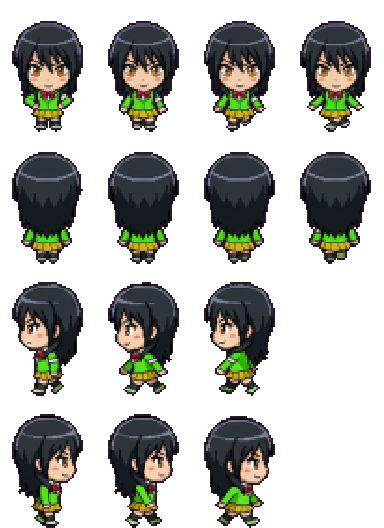
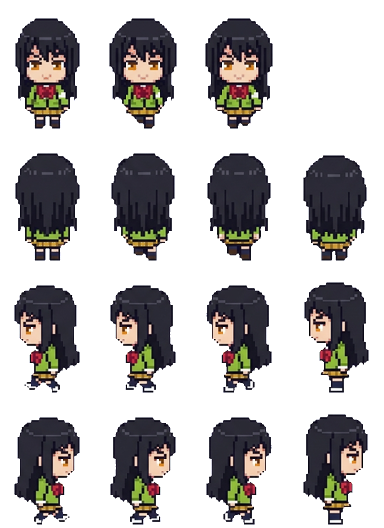
Redraw Misaki in the shared pixel style
Claude-Session: https://claude.ai/code/session_01KaPsBYLrtbRfMYNG2xeBCK

diff --git a/docs/app.js b/docs/app.js
@@ -75,7 +75,7 @@ function spr(cat, k, col, sc) {
   return `<div class="clip" style="width:${it[2] * sc}px;height:${it[3] * sc}px;POS"><img class="px" src="assets/decor/${cat}.png" alt="" style="width:${S.sw * sc}px;height:${S.sh * sc}px;margin-left:${-col * S.cw * sc}px;margin-top:${-i * S.ch * sc}px"></div>`;
 }
 const icon = (k, sz) => `<span class="itm" style="width:${sz}px;height:${sz}px"><img class="px" src="assets/ui/items.png" alt="" style="width:${IT.length * sz}px;height:${sz}px;margin-left:${-ITM[k].i * sz}px"></span>`;
-const face = (id, w) => { const s = w / 96; return `<img class="px" src="assets/ch/${id}.webp?v=75" alt="" style="position:absolute;width:${384 * s}px;height:${528 * s}px;left:${-(96 * s - w) / 2}px;top:0;max-width:none">`; };
+const face = (id, w) => { const s = w / 96; return `<img class="px" src="assets/ch/${id}.webp?v=76" alt="" style="position:absolute;width:${384 * s}px;height:${528 * s}px;left:${-(96 * s - w) / 2}px;top:0;max-width:none">`; };
 
 // ---------- 저장 ----------
 let fb = null, user = null, S = null, saveT = null;
@@ -143,7 +143,7 @@ function sleepHTML(id, r, dy) {
   const pos = r.a && r.a[0] === 'bed' ? 'left:3%;bottom:20%' : r.b && r.b[0] === 'bed' ? 'right:3%;bottom:20%' : 'left:calc(50% - 44px);bottom:6%';
   const s = 36 / 96;
   return `<div style="position:absolute;width:88px;height:56px;${pos};z-index:${dy ? 4 : 5};${dy ? `transform:translate(12px,${dy}px)` : ''}"><div style="position:absolute;inset:0;filter:brightness(.22)">
-    <div style="position:absolute;left:11px;top:1px;width:36px;height:50px;overflow:hidden;transform:rotate(-90deg)"><img class="px" src="assets/ch/${id}.webp?v=75" alt="" style="width:${384 * s}px;height:${528 * s}px;max-width:none;margin-top:${-132 * s}px"></div>
+    <div style="position:absolute;left:11px;top:1px;width:36px;height:50px;overflow:hidden;transform:rotate(-90deg)"><img class="px" src="assets/ch/${id}.webp?v=76" alt="" style="width:${384 * s}px;height:${528 * s}px;max-width:none;margin-top:${-132 * s}px"></div>
     <div style="position:absolute;left:19px;top:19px;width:67px;height:29px;border:2px solid var(--ink);border-radius:8px 6px 4px 4px;background:#8ccff5;background-image:repeating-linear-gradient(90deg,transparent 0 10px,rgba(255,255,255,.5) 10px 13px)"></div></div>
     ${dy ? '' : '<span class="emo" style="left:8px;top:-22px;color:#5b6bd6">Z z z</span>'}</div>`;
 }
@@ -153,8 +153,8 @@ function roomHTML(id, o, scale) {
     <div class="floor" style="background-color:${PAL[r.fc][1]};background-image:${tileUrl('floor', r.fl)}"></div>
     ${slot('deco', r.dc, 'left:6%;top:6%')}${slot('furn', r.a, 'left:3%;bottom:20%')}${slot('furn', r.b, 'right:3%;bottom:20%')}${slot('prop', r.pr, 'left:28%;bottom:4%;z-index:2')}
     ${id && o.sleeping && g ? sleepHTML(g, r, -16) : ''}${id && o.sleeping ? sleepHTML(id, r) : ''}${id && o.job ? `<div style="position:absolute;left:50%;top:38%;transform:translateX(-50%);z-index:5;background:#fff;border:3px solid var(--ink);border-radius:10px;padding:6px 10px;font-size:11px;text-align:center;line-height:1.5"><img src="assets/ui/ic_job.png" alt="" style="width:18px;vertical-align:-4px"> ${WORK[id] ? WORK[id][1] : esc(JOB_NAME[id]) + ' 알바 중'}${g ? `<br><small>${esc(nameOf(g))}도 같이</small>` : ''}<br><b id="jobleft">${timeLeft(o.job.until)}</b></div>` : ''}
-    ${id ? `<div class="shadow" id="shd" ${o.sleeping || o.job ? 'style="display:none"' : ''}></div><div class="man" id="man" ${o.sleeping || o.job ? 'style="display:none"' : ''}><img class="px" src="assets/ch/${id}.webp?v=75" alt="${esc(nameOf(id))}"></div><span class="emo" id="emo" hidden></span><span class="mumble" id="mum" hidden></span>` : ''}
-    ${g ? `<div class="shadow" id="gshd" ${hideG}></div><div class="man" id="gman" ${hideG}><img class="px" src="assets/ch/${g}.webp?v=75" alt="${esc(nameOf(g))}"></div><span class="emo" id="gemo" hidden></span><span class="mumble gmum" id="gmum" hidden></span>` : ''}
+    ${id ? `<div class="shadow" id="shd" ${o.sleeping || o.job ? 'style="display:none"' : ''}></div><div class="man" id="man" ${o.sleeping || o.job ? 'style="display:none"' : ''}><img class="px" src="assets/ch/${id}.webp?v=76" alt="${esc(nameOf(id))}"></div><span class="emo" id="emo" hidden></span><span class="mumble" id="mum" hidden></span>` : ''}
+    ${g ? `<div class="shadow" id="gshd" ${hideG}></div><div class="man" id="gman" ${hideG}><img class="px" src="assets/ch/${g}.webp?v=76" alt="${esc(nameOf(g))}"></div><span class="emo" id="gemo" hidden></span><span class="mumble gmum" id="gmum" hidden></span>` : ''}
     ${o.sleeping ? `<div class="night"></div><div class="sleepleft">쿨쿨 · 일어나기까지 <b id="sleepleft">${timeLeft(wakeAt(o)).replace(' 남음', '')}</b></div>` : ''}
   </div>`;
 }
@@ -167,7 +167,7 @@ function meterHTML(o) {
 const ic = (act, img, label, pressed) => `<button class="ic" data-act="${act}" ${pressed ? 'aria-pressed="true"' : ''}><img src="assets/ui/ic_${img}.png?v=2" alt="">${label}</button>`;
 
 let dropStyle = null; const cheat = {};
-const APP_V = 149, COUPONS = { NINOGUYA: 3000 };
+const APP_V = 150, COUPONS = { NINOGUYA: 3000 };
 // 쿠폰 입력 정리: 한글 자판 상태로 친 글자(ㅜㅑㅜㅐ혀ㅛㅁ)도 영어 자판 글자로 바꾸고, 대소문자·띄어쓰기·마침표는 무시해요
 const KEY = { ㄱ: 'r', ㄲ: 'R', ㄴ: 's', ㄷ: 'e', ㄸ: 'E', ㄹ: 'f', ㅁ: 'a', ㅂ: 'q', ㅃ: 'Q', ㅅ: 't', ㅆ: 'T', ㅇ: 'd', ㅈ: 'w', ㅉ: 'W', ㅊ: 'c', ㅋ: 'z', ㅌ: 'x', ㅍ: 'v', ㅎ: 'g',
   ㅏ: 'k', ㅐ: 'o', ㅑ: 'i', ㅒ: 'O', ㅓ: 'j', ㅔ: 'p', ㅕ: 'u', ㅖ: 'P', ㅗ: 'h', ㅘ: 'hk', ㅙ: 'ho', ㅚ: 'hl', ㅛ: 'y', ㅜ: 'n', ㅝ: 'nj', ㅞ: 'np', ㅟ: 'nl', ㅠ: 'b', ㅡ: 'm', ㅢ: 'ml', ㅣ: 'l',
@@ -407,7 +407,7 @@ function startTrip(k) {
   if (tg) lines[1] = `${nameOf(tg)}: ${withHim(sub(pick(GLX(tg).trip), o, c.n), tg)}`;
   const n = (FR[id] || [4, 4, 4, 4])[3], el = document.createElement('div'); el.className = 'tripview';
   el.innerHTML = `<div class="tsay"> </div><div class="tstage" style="background-image:url(assets/travel/${k}.png?v=2)"><div class="tplace">${esc(c.n)}</div>
-    <div class="twalker"><img class="px" src="assets/ch/${id}.webp?v=75" alt=""></div>${tg ? `<div class="twalker tgirl"><img class="px" src="assets/ch/${tg}.webp?v=75" alt=""></div>` : ''}<span class="emo tjoy">♪</span></div>
+    <div class="twalker"><img class="px" src="assets/ch/${id}.webp?v=76" alt=""></div>${tg ? `<div class="twalker tgirl"><img class="px" src="assets/ch/${tg}.webp?v=76" alt=""></div>` : ''}<span class="emo tjoy">♪</span></div>
     <div class="tbar"><i></i></div><button class="btn white tskip" data-tskip="1">바로 돌아오기</button>`;
   document.body.appendChild(el);
   const gimg = el.querySelector('.tgirl img'), gn = tg ? (FR[tg] || [4, 4, 4, 4])[3] : 1;
@@ -667,7 +667,7 @@ setInterval(() => { if (S && user) { tickTime(); save(); } }, 60000);
     if (nv > APP_V && !location.search.includes('u=' + nv)) { location.replace(location.pathname + '?u=' + nv); return; }
   } catch { }
   app.innerHTML = '<div class="start"><div class="egg"><div class="scr"></div></div><div class="note">불러오는 중....</div></div>';
-  const [c, t, f, it, mu, ct, tv, gl, sts] = await Promise.all(['data/chars.json', 'data/talk.json', 'data/frames.json', 'data/items.json', 'data/mumble.json', 'data/countries.json', 'data/travel.json', 'data/girls.json', 'data/sets.json'].map(u => fetch(u + '?v=149').then(r => r.ok ? r.json() : {})));
+  const [c, t, f, it, mu, ct, tv, gl, sts] = await Promise.all(['data/chars.json', 'data/talk.json', 'data/frames.json', 'data/items.json', 'data/mumble.json', 'data/countries.json', 'data/travel.json', 'data/girls.json', 'data/sets.json'].map(u => fetch(u + '?v=150').then(r => r.ok ? r.json() : {})));
   CH = c; CHM = Object.fromEntries(c.map(x => [x.id, x])); TALK = t; FR = f; IT = it; ITM = Object.fromEntries(it.map(x => [x.k, x])); MUM = mu; CTRY = ct; TRV = tv; GL = Array.isArray(gl) ? gl : []; SETS = Array.isArray(sts) ? sts : []; GLM = Object.fromEntries(GL.map(x => [x.id, x]));
   try { await initFirebase(); } catch (e) { console.warn('Firebase 연결 실패, 기기 저장으로', e); fb = null; }
   if (fb) {

diff --git a/docs/index.html b/docs/index.html
@@ -18,6 +18,6 @@
 <main id="app" aria-live="polite"></main>
 <div id="toast" role="status" hidden></div>
 <script src="firebase-config.js?v=3"></script>
-<script type="module" src="app.js?v=149"></script>
+<script type="module" src="app.js?v=150"></script>
 </body>
 </html>
